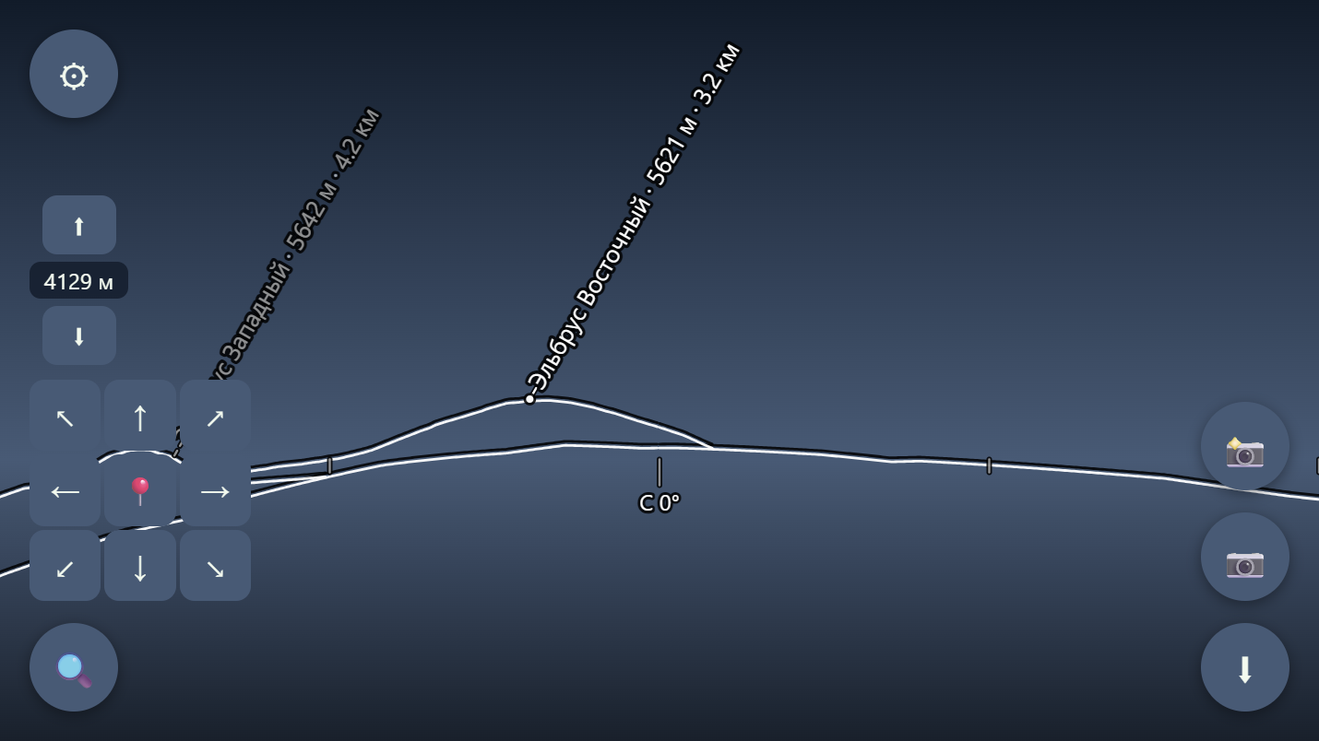
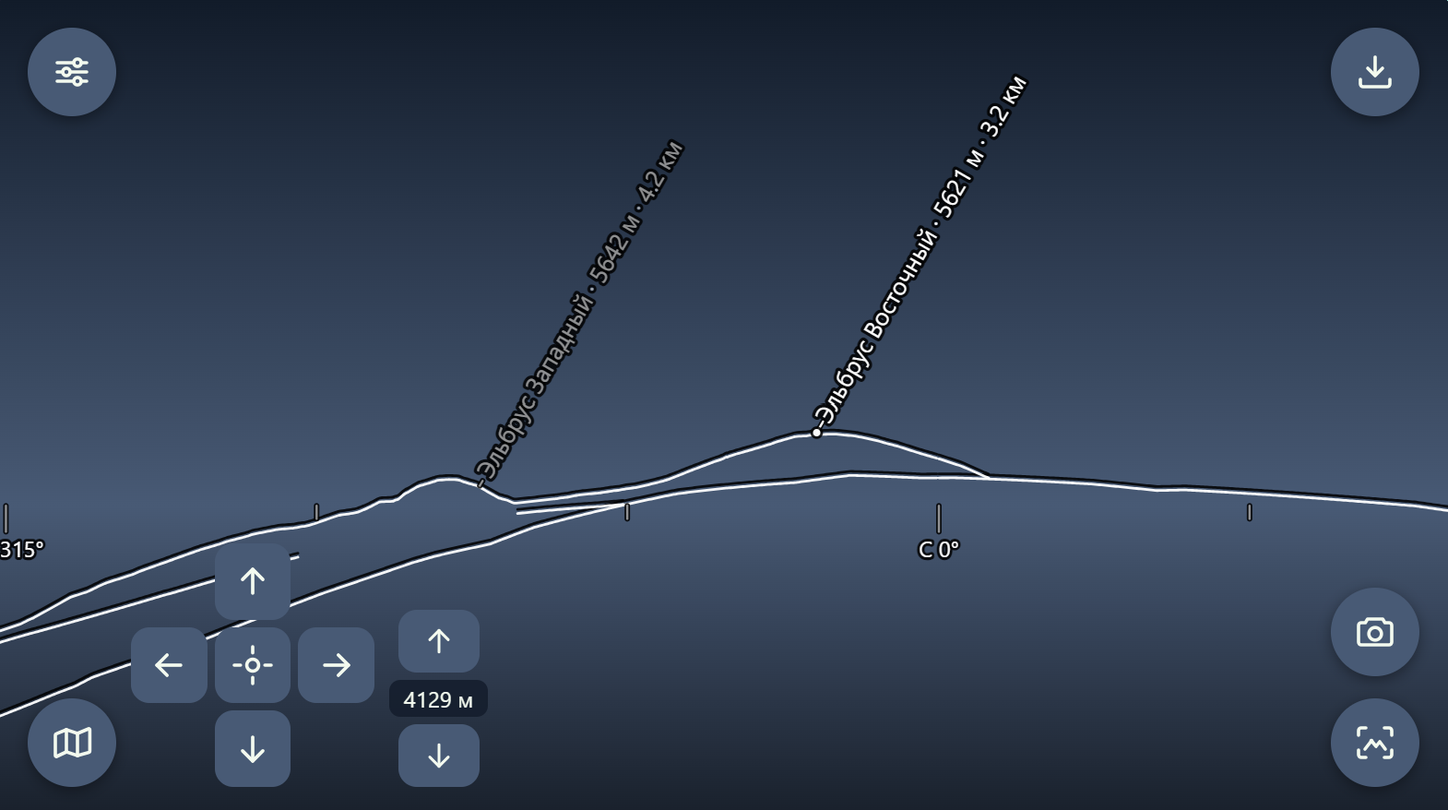
Make the camera mode the default on phones
Режим с включённой камерой — основной сценарий приложения: человек стоит
на склоне и наводит телефон на хребет. Подписи поверх живого кадра
отвечают на вопрос «что это за гора» сразу, а не требуют сличать
нарисованный силуэт с тем, что перед глазами. Прятать это за кнопкой в
углу неправильно — камера включается сама.

Решение вынесено в src/core/ar-mode.ts, чтобы его можно было проверить
тестами, а не кликами:

- первый запуск на телефоне (основной указатель грубый + есть касания) —
  включаем;
- на десктопе не просим никогда: узкое окно браузера на ноутбуке не повод
  открывать камеру;
- выход из режима и отказ в доступе запоминаются, иначе системный диалог
  всплывал бы при каждой загрузке;
- вышел в режиме камеры — в нём и вернулся, даже на десктопе с веб-камерой.

Отказ при автозапуске не показывается плашкой ошибки: человек сам его и
дал, а красная строка поверх панорамы выглядела бы поломкой. Панорама при
этом работает целиком — рендер один и тот же.

Попутно: выход из AR перерисовывает холст (под видео он не обновлялся),
вход/выход вынесены из обработчика кнопки в enterAr/exitAr.

Документация: скриншот интерфейса заменён на актуальный (иконки SVG,
нынешняя раскладка кнопок); в README камера идёт первым пунктом; в
ARCHITECTURE решение «панорама-first, AR — надстройка» переписано на
«AR-first на телефоне, панорама — фолбэк»; в STATUS поправлено описание
снимка (файл, а не Web Share API).

Тесты: 154 → 161.

diff --git a/src/main.ts b/src/main.ts
@@ -349,6 +349,7 @@ window.addEventListener('keydown', (ev) => {
 // --- Ориентация устройства (сенсоры + ручная подстройка) ---
 import { orientationTracker } from './core/orientation';
 import { getCalibration, setCalibration, DEFAULT_CAMERA_FOV_DEG } from './core/calibration';
+import { rememberArMode, shouldAutoStartAr } from './core/ar-mode';
 import { destination } from './core/geo';
 
 /**
@@ -1255,20 +1256,30 @@ function setupActionButtons(): void {
     });
   };
 
-  // AR-режим
+  // AR-режим — основной: камера включается сама, см. maybeAutoStartAr()
   const arBtn = makeButton(ICON_AR, t('arMode'), `right:${edgeRight()};bottom:${edgeBottom()}`);
   let arVideo: HTMLVideoElement | null = null;
-  arBtn.onclick = async () => {
-    if (arSession) {
-      arSession.stop();
-      arSession = null;
-      arVideo?.remove(); // иначе десять входов в AR — десять <video> под холстом
-      arVideo = null;
-      arBtn.style.background = '#415a77';
-      calibrateBtn.style.display = 'none';
-      return;
-    }
-    if (!panorama) return;
+
+  function exitAr(): void {
+    arSession?.stop();
+    arSession = null;
+    arVideo?.remove(); // иначе десять входов в AR — десять <video> под холстом
+    arVideo = null;
+    arBtn.style.background = '#415a77';
+    calibrateBtn.style.display = 'none';
+    draw(); // под видео холст не перерисовывался — вернём панораму
+  }
+
+  /**
+   * Вход в режим камеры.
+   *
+   * @param auto запуск при загрузке, а не по нажатию: об отказе в доступе
+   *   человека извещать нечем — он его сам и дал, а красная плашка поверх
+   *   панорамы выглядела бы поломкой
+   * @returns удалось ли включить камеру
+   */
+  async function enterAr(auto = false): Promise<boolean> {
+    if (!panorama || arSession) return false;
     const video = document.createElement('video');
     try {
       const { startAr } = await import('./ui/ar');
@@ -1283,14 +1294,38 @@ function setupActionButtons(): void {
       if (getCalibration().autoCalibrate) {
         setTimeout(() => void runAutoCalibration(true), 1200);
       }
+      return true;
     } catch (err) {
       // Отказ в доступе к камере: элемент вставлен до вызова startAr,
       // и без уборки он остался бы в DOM насовсем
       video.remove();
       arVideo = null;
-      setStatus(`${t('error')}: ${err instanceof Error ? err.message : err}`);
+      if (auto) console.info('Камера при запуске не открылась:', err);
+      else setStatus(`${t('error')}: ${err instanceof Error ? err.message : err}`);
+      return false;
     }
+  }
+
+  arBtn.onclick = async () => {
+    if (arSession) {
+      exitAr();
+      rememberArMode(false);
+      return;
+    }
+    // Запоминаем результат, а не намерение: отказ в доступе — это «нет»
+    rememberArMode(await enterAr());
   };
+
+  /**
+   * Камера при запуске: главный режим приложения не должен требовать
+   * нажатия. Ждём первого расчёта — оверлей без панорамы рисовать нечем.
+   */
+  async function maybeAutoStartAr(): Promise<void> {
+    if (!shouldAutoStartAr()) return;
+    const started = await enterAr(true);
+    // Отказ запоминаем: иначе диалог о камере всплывал бы при каждой загрузке
+    if (!started) rememberArMode(false);
+  }
 
   // Автокалибровка: видна только в AR — сопоставлять нечего, пока нет кадра
   const calibrateBtn = makeButton(
@@ -1325,6 +1360,10 @@ function setupActionButtons(): void {
     setStatus(t('photoSaved'));
     setTimeout(() => setStatus(''), 3000);
   };
+
+  // Камера — последним шагом: к этому моменту вся раскладка на месте, и
+  // человек видит панораму, даже если разрешение он даст не сразу
+  void maybeAutoStartAr();
 }
 
 /**

diff --git a/src/core/ar-mode.ts b/src/core/ar-mode.ts
@@ -1,0 +1,69 @@
+/**
+ * Режим камеры — основной сценарий приложения.
+ *
+ * Человек стоит на склоне и наводит телефон на хребет: подписи поверх живого
+ * кадра отвечают на вопрос «что это за гора» сразу, без сопоставления
+ * нарисованного силуэта с тем, что перед глазами. Поэтому камера включается
+ * сама, а не по нажатию кнопки, которую ещё нужно найти.
+ *
+ * Само решение отделено от интерфейса: «спрашивать ли камеру при запуске» —
+ * логика с тремя источниками (прошлый выбор, тип устройства, наличие
+ * самого API), и её проще проверить тестами, чем кликами.
+ */
+
+const STORAGE_KEY = 'vershiny-ar';
+
+/**
+ * Прошлый выбор пользователя:
+ *   - `on` — вышел из приложения в режиме камеры;
+ *   - `off` — выключил камеру сам либо отказал в доступе;
+ *   - `unset` — ещё не решал (первый запуск).
+ */
+export type ArPreference = 'on' | 'off' | 'unset';
+
+export function storedArPreference(): ArPreference {
+  try {
+    const raw = localStorage.getItem(STORAGE_KEY);
+    return raw === 'on' || raw === 'off' ? raw : 'unset';
+  } catch {
+    // Приватный режим: считаем, что человек ещё не решал
+    return 'unset';
+  }
+}
+
+export function rememberArMode(on: boolean): void {
+  try {
+    localStorage.setItem(STORAGE_KEY, on ? 'on' : 'off');
+  } catch {
+    // Без хранилища выбор живёт до перезагрузки — это лучше, чем ничего
+  }
+}
+
+/**
+ * Телефон или планшет в руках, а не монитор на столе.
+ *
+ * Проверяем основной указатель, а не ширину экрана: узкое окно браузера на
+ * ноутбуке — это не повод просить камеру, а планшет в ландшафте — повод.
+ */
+export function isHandheld(): boolean {
+  const coarse =
+    typeof matchMedia === 'function' && matchMedia('(pointer: coarse)').matches;
+  return coarse && (navigator.maxTouchPoints ?? 0) > 0;
+}
+
+/**
+ * Включать ли камеру самим при запуске.
+ *
+ * Первый запуск на телефоне — включаем: это главный режим, и разрешение всё
+ * равно придётся дать. Отказ (или явный выход из AR) запоминается, и больше
+ * при каждой загрузке камеру никто не просит: кнопка остаётся на месте.
+ */
+export function shouldAutoStartAr(
+  preference: ArPreference = storedArPreference(),
+  handheld: boolean = isHandheld(),
+): boolean {
+  if (!navigator.mediaDevices?.getUserMedia) return false;
+  if (preference === 'off') return false;
+  if (preference === 'on') return true;
+  return handheld;
+}

diff --git a/test/ar-mode.test.ts b/test/ar-mode.test.ts
@@ -1,0 +1,71 @@
+// @vitest-environment jsdom
+/**
+ * Режим камеры включается сам — но не любой ценой.
+ *
+ * Две крайности, между которыми выбирает `shouldAutoStartAr`: приложение,
+ * которое просит камеру при каждой загрузке даже после отказа, и приложение,
+ * где главный режим спрятан за кнопкой в углу.
+ */
+
+import { describe, it, expect, beforeEach, afterEach, vi } from 'vitest';
+import {
+  rememberArMode,
+  shouldAutoStartAr,
+  storedArPreference,
+} from '../src/core/ar-mode';
+
+/** Камера в браузере есть (сам вызов в этих тестах не делается) */
+function stubCamera(available: boolean): void {
+  vi.stubGlobal('navigator', {
+    ...navigator,
+    maxTouchPoints: navigator.maxTouchPoints,
+    mediaDevices: available ? { getUserMedia: vi.fn() } : undefined,
+  });
+}
+
+beforeEach(() => {
+  localStorage.clear();
+  stubCamera(true);
+});
+
+afterEach(() => {
+  vi.unstubAllGlobals();
+});
+
+describe('режим камеры', () => {
+  it('первый запуск на телефоне включает камеру сам', () => {
+    expect(shouldAutoStartAr('unset', true)).toBe(true);
+  });
+
+  it('на десктопе камеру при запуске не просит', () => {
+    // Узкое окно браузера на ноутбуке — не повод открывать камеру
+    expect(shouldAutoStartAr('unset', false)).toBe(false);
+  });
+
+  it('отказ помнится: диалог не всплывает при каждой загрузке', () => {
+    expect(shouldAutoStartAr('off', true)).toBe(false);
+  });
+
+  it('вышел в режиме камеры — в нём и вернулся, даже на десктопе', () => {
+    // Ноутбук с веб-камерой: человек включил AR сам, значит это его выбор
+    expect(shouldAutoStartAr('on', false)).toBe(true);
+  });
+
+  it('без getUserMedia не пытается вовсе', () => {
+    stubCamera(false);
+    expect(shouldAutoStartAr('on', true)).toBe(false);
+  });
+
+  it('выбор переживает перезапуск', () => {
+    expect(storedArPreference()).toBe('unset');
+    rememberArMode(true);
+    expect(storedArPreference()).toBe('on');
+    rememberArMode(false);
+    expect(storedArPreference()).toBe('off');
+  });
+
+  it('мусор в хранилище читается как «ещё не решал»', () => {
+    localStorage.setItem('vershiny-ar', '{"on":true}');
+    expect(storedArPreference()).toBe('unset');
+  });
+});

diff --git a/install.html b/install.html
@@ -70,8 +70,9 @@
 
   <img class="shot" src="./media/panorama.png" alt="Панорама Эльбруса с подписями вершин" />
   <p class="caption">
-    Вид с Приюта 11. Восточная вершина видна — у неё кружок; Западная стоит
-    за склоном, поэтому её выноска обрывается о гребень.
+    Тот же силуэт без камеры — вид с Приюта 11. Восточная вершина видна: у неё
+    кружок; Западная стоит за склоном, поэтому её выноска обрывается о гребень.
+    На телефоне подписи ложатся поверх живого кадра — камера включается сама.
   </p>
 
   <a class="btn" href="./">Открыть приложение</a>

diff --git a/README.md b/README.md
@@ -10,17 +10,26 @@ PeakFinder: показывает, какие горы видны из точки
 готовую точку: [Приют 11 на Эльбрусе](https://agran.github.io/vershiny/?lat=43.318&lon=42.458),
 [Церматт](https://agran.github.io/vershiny/?lat=46.02&lon=7.75).
 
+На телефоне приложение сразу просит камеру: подписи ложатся поверх живого
+кадра — это основной режим. На десктопе камеры нет, поэтому там тот же силуэт
+рисуется на тёмном фоне.
+
 Приложение ставится на домашний экран как обычное (PWA): работает офлайн,
 обновляется само — когда выходит новая версия, внизу появляется плашка
 «Доступно обновление».
 
 ![Панорама Эльбруса с подписями вершин](docs/media/panorama.png)
 
-*Вид с Приюта 11. У Восточной вершины кружок — она видна; Западная стоит за
-склоном, поэтому её выноска обрывается о гребень и маркера не имеет.*
+*Тот же силуэт без камеры — вид с Приюта 11. У Восточной вершины кружок: она
+видна; Западная стоит за склоном, поэтому её выноска обрывается о гребень и
+маркера не имеет.*
 
 ## Что умеет
 
+- **Камера** — основной режим: подписи ложатся поверх живого кадра, и вопрос
+  «что это за гора» решается наведением телефона, а не сличением рисунка с
+  тем, что перед глазами. На телефоне включается сама при запуске; выключили —
+  запомнит и больше не будет спрашивать
 - **Силуэт горизонта** — 3600 лучей по DEM с учётом кривизны Земли и рефракции,
   видимые гребни по корзинам дистанций, дальность до 200 км
 - **Подписи вершин** — 692 тысячи вершин из OpenStreetMap, включая вулканы;
@@ -29,13 +38,15 @@ PeakFinder: показывает, какие горы видны из точки
   одиноко стоящая гора не проигрывает побочному пику соседнего массива
 - **Скрытые вершины** — если горе не хватило до гребня меньше 400 м, она
   подписывается серым: «она вон за тем склоном»
+- **Совмещение с кадром** — компас врёт на магнитное склонение и железо в
+  кармане: контуры подстраиваются свайпом или автоматически по силуэту в кадре
 - **Поиск по всей планете** — с выбором из нескольких вариантов и указанием
   региона; «Казбек» находит `Kazbek`, «Эверест» — `Mount Everest`
 - **Полёт** — перемещение по местности, подъём над землёй, перелёт к любой
   найденной вершине с автоматическим выбором точки обзора
 - **Карта OSM** — где стоите и куда смотрите; перенос в любую точку планеты
   одним касанием, регион переключается сам
-- **AR** — те же подписи поверх кадра камеры; снимок в галерею
+- **Снимок** — кадр с подписями сохраняется файлом, имя — по главной вершине
 - **Офлайн** — PWA: ставится на домашний экран, регион скачивается целиком и
   работает без сети; обновления приезжают сами
 

diff --git a/docs/STATUS.md b/docs/STATUS.md
@@ -28,8 +28,8 @@
 - **PWA**: манифест с иконками, установка на домашний экран (`install.html`), Service Worker с версионированием кешей и плашкой «Доступно обновление»
 - **Перелёт к вершине**: точка обзора подбирается по DEM (12 азимутов, видна ли вершина), камера сама наводится на рельеф (ALGORITHMS.md §7)
 - **Калибровка**: автосовмещение контуров с кадром камеры (CV по линии «небо / земля», ALGORITHMS.md §3) — само при входе в AR и кнопкой; плюс ручные ползунки (поле зрения камеры, азимут, наклон) в настройках. Поправки сохраняются между запусками
-- **AR**: getUserMedia + тот же `drawOverlay()` поверх кадра камеры
-- **Фото**: снимок с подписями → Web Share API
+- **AR (основной режим)**: getUserMedia + тот же `drawOverlay()` поверх кадра камеры. На телефоне включается сам после первого расчёта панорамы (`src/core/ar-mode.ts`); выход из режима и отказ в доступе запоминаются, чтобы диалог о камере не всплывал при каждой загрузке
+- **Фото**: снимок с подписями сохраняется файлом (`vershiny-elbrus-vostochnyy-2026-08-13-2252.png`) — имя по главной вершине в кадре
 - **Офлайн**: кнопка скачивания показывает состояние текущего региона — стрелка на синем, пока его нет на устройстве, галочка на зелёном, когда есть. Иначе не понять, скачано ли: панорама рисуется в обоих случаях, разница вылезает только в горах без связи. Реестр регионов кешируется в IndexedDB — без сети список в настройках остаётся на месте, и активный регион можно сменить
 - **PWA**: Service Worker, IndexedDB, офлайн-режим (см. «Офлайн-загрузка региона»)
 

diff --git a/docs/ARCHITECTURE.md b/docs/ARCHITECTURE.md
@@ -42,7 +42,7 @@
 | Глобальный DEM = AWS Terrarium, свои тайлы — только патчи | Весь мир из коробки без ETL; >60°N закрыто ArcticDEM/GLO-90 внутри Terrarium; свой хостинг — только горные регионы (new-geo-data.md) |
 | Единая абстракция DemSource (патч → Terrarium → кеш) | Ray-marching не знает об источнике; точка расширения для новых слоёв |
 | Прекомпилированные статические данные | Никакого бэкенда и никаких рантайм-запросов к Overpass (rate limits) |
-| Панорама-first, AR — надстройка | Панорама работает без камеры и с хреновым компасом; AR — тот же рендер поверх видео |
+| AR-first на телефоне, панорама — фолбэк | Основной сценарий — «стою на склоне и навожу телефон»: подписи поверх живого кадра отвечают на вопрос сразу, без сличения рисунка с местностью. Поэтому камера включается сама при запуске (отказ запоминается). Но рендер один и тот же, и без камеры — с отказом в доступе, на десктопе, с врущим компасом — панорама работает целиком |
 
 ## Система координат проекции
 
